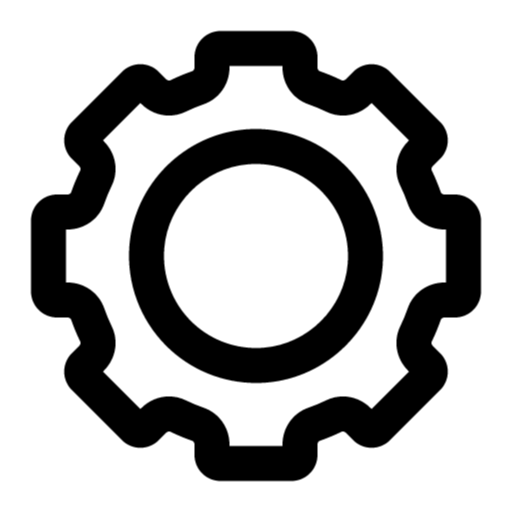
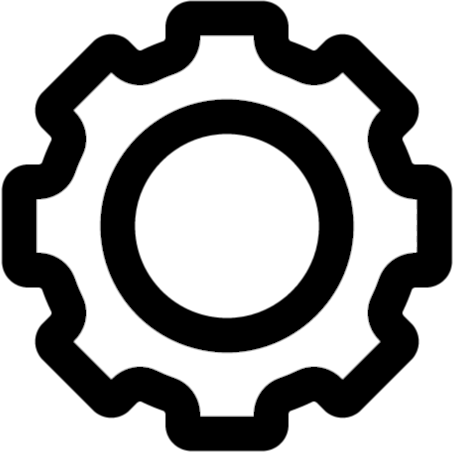
commit from git

diff --git a/DKPlugins/DKTasmota/DKAPP.js b/DKPlugins/DKTasmota/DKAPP.js
@@ -207,7 +207,12 @@ function AddDeviceToTable(ip) {
     const optionsCell = DKTableGetCellByName(table, ip, "options");
     //optionsCell.setAttribute("name", table.rows[0].cells[3].getAttribute("name"));
     optionsCell.style.textAlign = "center";
-    optionsCell.style.cursor = "pointer";
+    let settings = document.createElement("img");
+    settings.src = "settings.png";
+    settings.style.width = "15px";
+    settings.style.height = "15px";
+    settings.style.cursor = "pointer";
+    optionsCell.appendChild(settings);
 
     //Do some final processing
     const deviceHeader = DKTableGetCellByName(table, "HEADER", "device");
